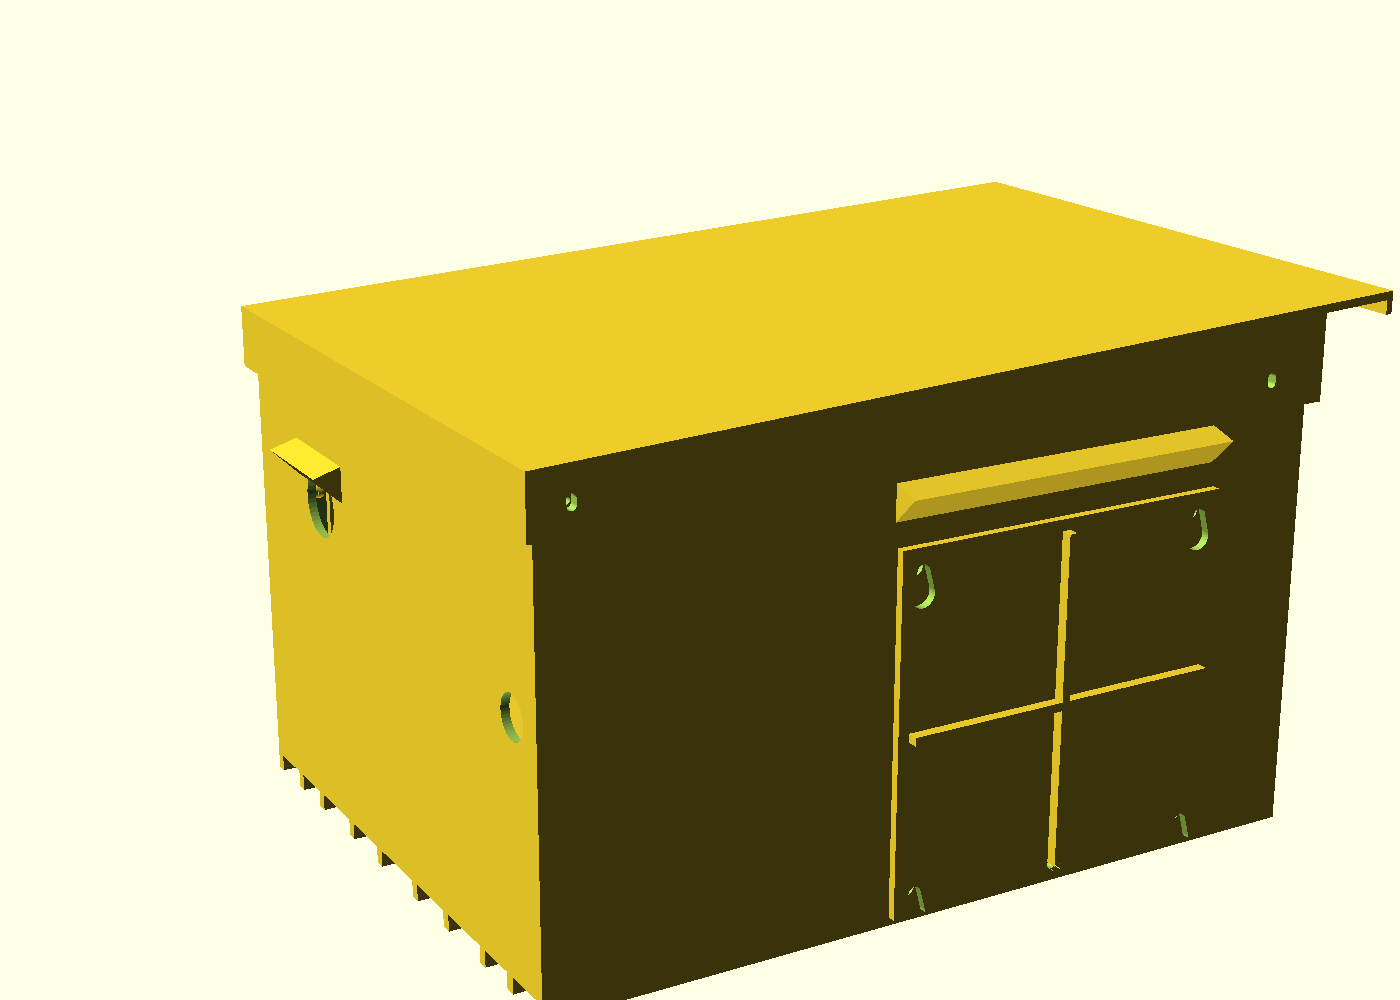
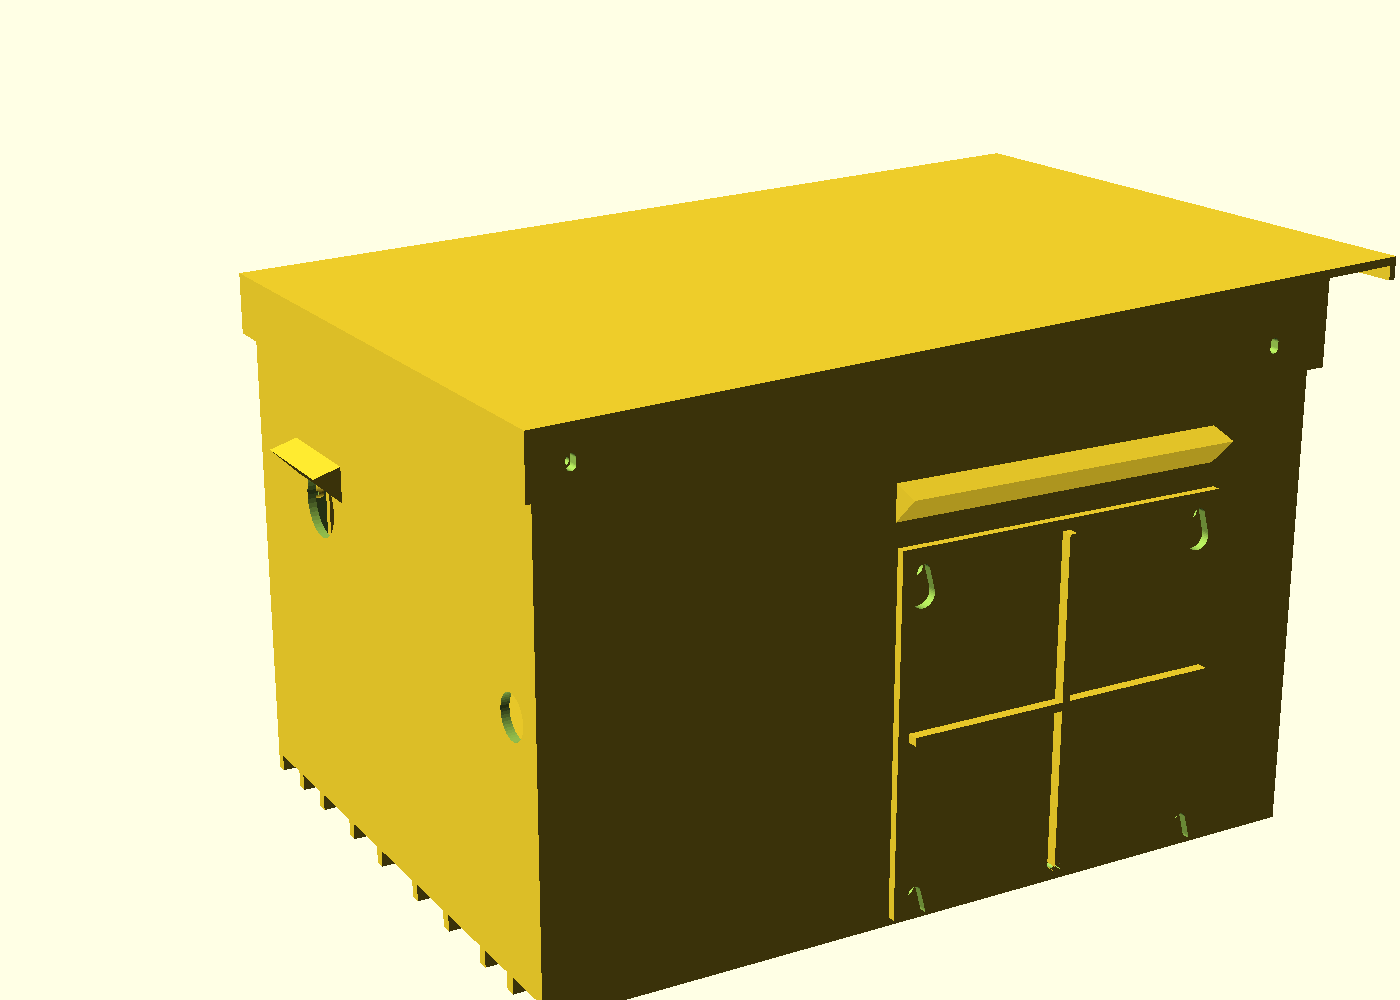
Use the UTEBIT 20 mm mini ball head
ball_head_h 40 -> 52 and pivot_h 25 -> 32, scaled off the vendor drawing;
ghost 32 mm. Docs updated, previews re-rendered, PRINTING.md re-sliced
(only the two base tiles changed: base_front 37 h 4 m, base_rear 18 h 43 m).

Changed region(s): [[0.1536, 0.155, 1.0, 0.465], [0.9214, 0.372, 0.9521, 0.403], [0.1536, 0.341, 0.1843, 0.372]]

diff --git a/CLAUDE.md b/CLAUDE.md
@@ -77,7 +77,7 @@ Print orientation is baked into the `part` dispatch at the bottom (lid flipped r
 2. Projector power control is HDMI-CEC from the Pi (fallback: HDMI output off). The projector's EDID has been read on a Mac (2026-10-05, see `docs/BRINGUP.md` "Verified so far"): generic STK "S2-TEK TV" block, 1080p60 native, 8-bit, 150 MHz TMDS, DPMS standby flagged, HDMI vendor block with CEC physical address 2.0.0.0. That proves a real HDMI input, not CEC; whether the projector answers CEC is still unknown until bring-up row 9 on the Pi.
 3. Stock supply (label photographed 2026-10-05): a wall-wart, MX48CC-210228US, input AC 100-240 V 1.0 A, output 21 V 2.28 A (48 W), centre-positive per the symbol, fixed 2-pin prongs, captive DC cord. Length 85.6 is measured; width 47 (`wart_w`, the standing height: the stack is asserted against the lid roof with about 3 mm to spare) is scaled off the photo; thickness (`wart_t` 35) and the prong offset (`wart_prong` 15) are guesses. The second wall-wart (`wart2`) is not bought yet. The receptacle cutout (`rcpt_cut` 26 x 22, Qualtek 738W-X2/01) is from the datasheet, untested; it is on the fit coupon.
 4. PIR dome diameter and hole spacing (`pir_dome_d` 23.5, `pir_hole_sp` 28.7) and whether the DigiAMP+'s unpopulated encoder/IR header pins (GPIO 17, 23-25, 27) really float; GPIO 22 is its mute line, so the IR LED sits on GPIO 16. Stack heights per sled (the DigiAMP+ brief gives no height; `pi_stack_h` 40, `pi5_stack_h` 50 with Active Cooler, `zero_stack_h` 30, `zero_hat_z` 13 are guesses), DigiAMP+ support and power on Pi 5 and Zero 2 W, and whether a 12-24 V 2.5 A wall-wart covers the Pi + DigiAMP+ at the volume used.
-5. Ball head height (`ball_head_h` = 40) and the aim range depend on the head actually bought. Throw ratio (0.95, derived from the manual's image sizes), lens offset (0), lens height, are all unmeasured; the port positions are photo-derived (item 1), and the HDMI cable's route to the divider at full aim and the LED seat in `ir_holder` are unchecked.
+5. Ball head: UTEBIT 20 mm chosen (2026-10-06); `ball_head_h` 52 and `pivot_h` 32 are scaled off the vendor drawing, so caliper the real head (platform height, ball centre, lock knob position). Throw ratio (0.95, derived from the manual's image sizes), lens offset (0), lens height, are all unmeasured; the port positions are photo-derived (item 1), and the HDMI cable's route to the divider at full aim and the LED seat in `ir_holder` are unchecked.
 6. Fit of hatch keyholes, acrylic rebate (sized for a 3.5 x 5 in, about 2 mm frame-glazing pane; `pane_w`/`pane_h` drive the window), heat-set insert holes (`insert_d` 8.2 for 1/4-20, `m4_insert_d` 5.6) and the receptacle snap-in cutout is untested.
 7. Base seam collars and screws, the lid scarf joint and the gasket land are unprinted.
 8. Pi software lives in `pi/` (Matter switch, mpv player, scares, schedule, web UI, audio to the DigiAMP+); untested on hardware. Device-facing names use `VideoFX-XXXX` (hostname `videofx-xxxx`, last 4 of the MAC; system paths and units `videofx`), not the AtmosFX trademark.

diff --git a/docs/BOM.md b/docs/BOM.md
@@ -9,8 +9,8 @@ Quantities for one case. Printed parts and filament are in [PRINTING.md](PRINTIN
 | Item | Qty | Notes | Buy |
 |---|---|---|---|
 | Mini projector, 1/4-20 tripod socket, HDMI-CEC if possible | 1 | About 171 x 134 x 75 mm assumed; measure yours | Owned (Tkisko TO2). The [Amazon listing](https://www.amazon.com/dp/B0CKNBWDP1) was unavailable on 2026-10-05 |
-| Mini ball head, rated above the projector's weight | 1 | 1/4-20 both ends; about 40 mm tall assumed | [Micro Center: Dot Line medium ball head](https://www.microcenter.com/product/504683/dot-line-medium-metal-ball-head?storeid=195) (1/4-20 both ends) or [Amazon: UTEBIT 20 mm mini ball head](https://www.amazon.com/dp/B06XKW7V14) (rated 2.5 lb) |
-| 1/4-20 double-ended stud | 1 | Pedestal to ball head | [Amazon: SmallRig 828, 2-pack](https://www.amazon.com/dp/B007LTH1X2) |
+| Mini ball head, rated above the projector's weight | 1 | Chosen: UTEBIT 20 mm (male 1/4-20 on top into the projector, female 1/4-20 underneath; 58 mm overall, 32 mm base, rated 2.5 kg; the hot-shoe adapter in the box is not used) | [Amazon: UTEBIT 20 mm mini ball head](https://www.amazon.com/dp/B06XKW7V14) |
+| 1/4-20 double-ended stud | 1 | Pedestal insert to the head's bottom hole (both female) | [Amazon: SmallRig 828, 2-pack](https://www.amazon.com/dp/B007LTH1X2) |
 | Raspberry Pi 3B/3B+, 4B, 5 or Zero 2 W | 1 | Print the matching sled | Micro Center: [Pi 5](https://www.microcenter.com/product/673712/raspberry-pi-5?storeid=195), [Pi 4B](https://www.microcenter.com/product/637834/raspberry-pi-4-model-b?storeid=195), [Pi 3B+](https://www.microcenter.com/product/601561/raspberry-pi-3-model-b?storeid=195). Zero 2 W is in-store only there, so [Amazon: Pi Zero 2 W](https://www.amazon.com/dp/B09LH5SBPS) |
 | Raspberry Pi DigiAMP+ (SC2076) | 1 | 2 x 35 W class D, 12-24 V in (5.5 x 2.5 mm barrel or P5 hard-wire), powers the Pi at 5.1 V / 2.5 A; 40-pin pass-through header; 0-50 °C ([product brief](<https://pip-assets.raspberrypi.com/categories/765-raspberry-pi-digiamp/documents/RP-008138-DS-1-digiamp-plus-hat-product-brief.pdf>)) | [Micro Center: Raspberry Pi DigiAMP+](https://www.microcenter.com/product/631851/raspberry-pi-digiamp?storeid=195) (chosen over the HiFiBerry Amp4: same TAS5756M, half the price, in stock locally) |
 | 2x20 GPIO header | 0-1 | Zero 2 W only (it ships without one); the DigiAMP+ passes the other pins through | [Micro Center: 52Pi 2x20 stacking header kit](https://www.microcenter.com/product/669727/52pi-2x20-40-pin-stacking-female-header-kit?storeid=195) |

diff --git a/docs/DESIGN_LOG.md b/docs/DESIGN_LOG.md
@@ -28,6 +28,7 @@ Chronological record of decisions, including dead ends, so the reasoning survive
 
 - **Sealed vs rain-proof.** Sealing overheats projectors. AtmosFX says any enclosure must allow air circulation; a forum builder who put a projector in a louvered plastic tub felt it would just melt it. So: rain-shedding louvers, floor intake, exhaust fan (superseded 2026-10-06: passive airflow, right-wall banks, no fans or floor intake).
 - **Mini ball head, not a printed ball joint.** Commercial heads are cheap and lock reliably; printed friction joints creep. Rating matters: the Tilta mini head is rated 1.5 kg, the projector is about 0.72 kg. A heavy-duty head (Kessler low-profile, about 3.5 in tall) would push the base past the 210 mm Z limit and force a horizontal split.
+- **UTEBIT 20 mm head chosen (2026-10-06).** Vendor drawing: 58 mm overall including the stud, 30 mm body, 20 mm ball, 32 mm base, 2.5 kg rating (projector about 0.72 kg). Set `ball_head_h` 52 (platform the projector sits on; the stud screws into its socket) and `pivot_h` 32 (ball centre), both scaled off the drawing; the old 40 / 25 were guesses. Build and `check_clash.sh` stayed green. Sources: [Amazon listing](https://www.amazon.com/dp/B06XKW7V14).
 - **Tripod insert removed** in v0.2 when the case became ground-standing.
 - **Quarters to halves.** With a 260 mm projector the box needed four tiles. With the real projector, front/rear halves are enough. The divider sits at the seam.
 - **Aim hatch.** Options weighed: tool-free lid latches (still lift the whole lid), a side hatch with screws, a keyhole cover. Keyholes won: nothing to unscrew, cover hangs on four M4 bolts, lift up and off. Hood is a 45 deg wedge (no supports). It first collided with the cover top and then with the lid skirt; shrunk to 10 mm and lifted; verified clear.

diff --git a/docs/BRINGUP.md b/docs/BRINGUP.md
@@ -16,7 +16,7 @@ Everything below has only been tested in software. Work through it on the bench 
 | 2a | Signal-loss standby, from the Mac: with the projector showing the Mac's desktop, sleep the Mac and time how long the projector takes to blank, then wake the Mac | The projector blanks (or goes to standby) by itself within a few minutes and the picture returns when the signal does | `hdmi-off` mode won't save the lamp at night; plan on `relay` or `relay-ir` |
 | 3 | Throw ratio and offset: project onto a wall from a measured distance, and measure image width and how far the bottom edge sits above the lens | Throw ratio about 0.95, offset recorded; the Site rows' tilt stays under `cone_tilt` (11 deg) | Set `throw_ratio`, `lens_offset`; check the `light-cone` result |
 | 4 | Wall-warts. Stock (done 2026-10-05): MX48CC-210228US, in 100-240 V 1.0 A, out 21 V 2.28 A (48 W), centre +, no AC inlet, 85.6 long; still to measure: its width (standing height) and thickness, and the prong offset from the end. Second wall-wart (12-24 V, 2.5-3 A): label and size | `wart_w` within 1 mm (the stack has 3 mm under the lid roof); both bodies hang clear of the divider; polarity confirmed with a meter | Set `wart_w`, `wart_t`, `wart_prong`, `wart2`; if the stack hits the roof, raise `top_air`; fill in the fuse table in WIRING.md |
-| 5 | Ball head height and where the lock knob sits | Knob reachable through the hatch diamond | Change `ball_head_h`; move the hatch (`hatch_zc`) |
+| 5 | UTEBIT head: platform height (52) and ball centre (32) with calipers, and where the lock knob sits | Knob reachable through the hatch diamond | Change `ball_head_h`; move the hatch (`hatch_zc`) |
 
 ## Pi on the bench (before it goes in the case)
 

diff --git a/docs/PRINTING.md b/docs/PRINTING.md
@@ -26,13 +26,13 @@ Two Prusa i3 MK3S (bed 250 x 210 x 210 mm), Prusament PETG (or ASA, which fades 
 | `power_shelf` | 1 | 4 h 51 m | 67 g | Prints flat with the 90 mm receptacle plate standing up |
 | `lid_rear` | 1 | 6 h 41 m | 112 g | |
 | `lid_front` | 1 | 9 h 45 m | 169 g | |
-| `base_rear` | 1 | 17 h 49 m | 259 g | 12 h 49 m with 0.30mm DRAFT (291 g) |
-| `base_front` | 1 | **35 h 2 m** | 529 g | 25 h 32 m with 0.30mm DRAFT (582 g; set `layer_h = 0.3`) |
-| **Total** | | **about 84 h** | **about 1.3 kg** | Two 1 kg spools. Re-sliced from the 3.5 x 5 in pane and airflow-change STLs. |
+| `base_rear` | 1 | 18 h 43 m | 272 g | 13 h 25 m with 0.30mm DRAFT (305 g) |
+| `base_front` | 1 | **37 h 4 m** | 559 g | 26 h 55 m with 0.30mm DRAFT (615 g; set `layer_h = 0.3`) |
+| **Total** | | **about 86 h** | **about 1.3 kg** | Two 1 kg spools. Re-sliced for the UTEBIT 20 mm ball head (`ball_head_h` 52), which only changed the two base tiles. |
 
 ## Order, on two printers
 
-The small parts first, so any fit problem shows up before a 35-hour print.
+The small parts first, so any fit problem shows up before a 37-hour print.
 
 | Day | Printer A | Printer B |
 |---|---|---|
